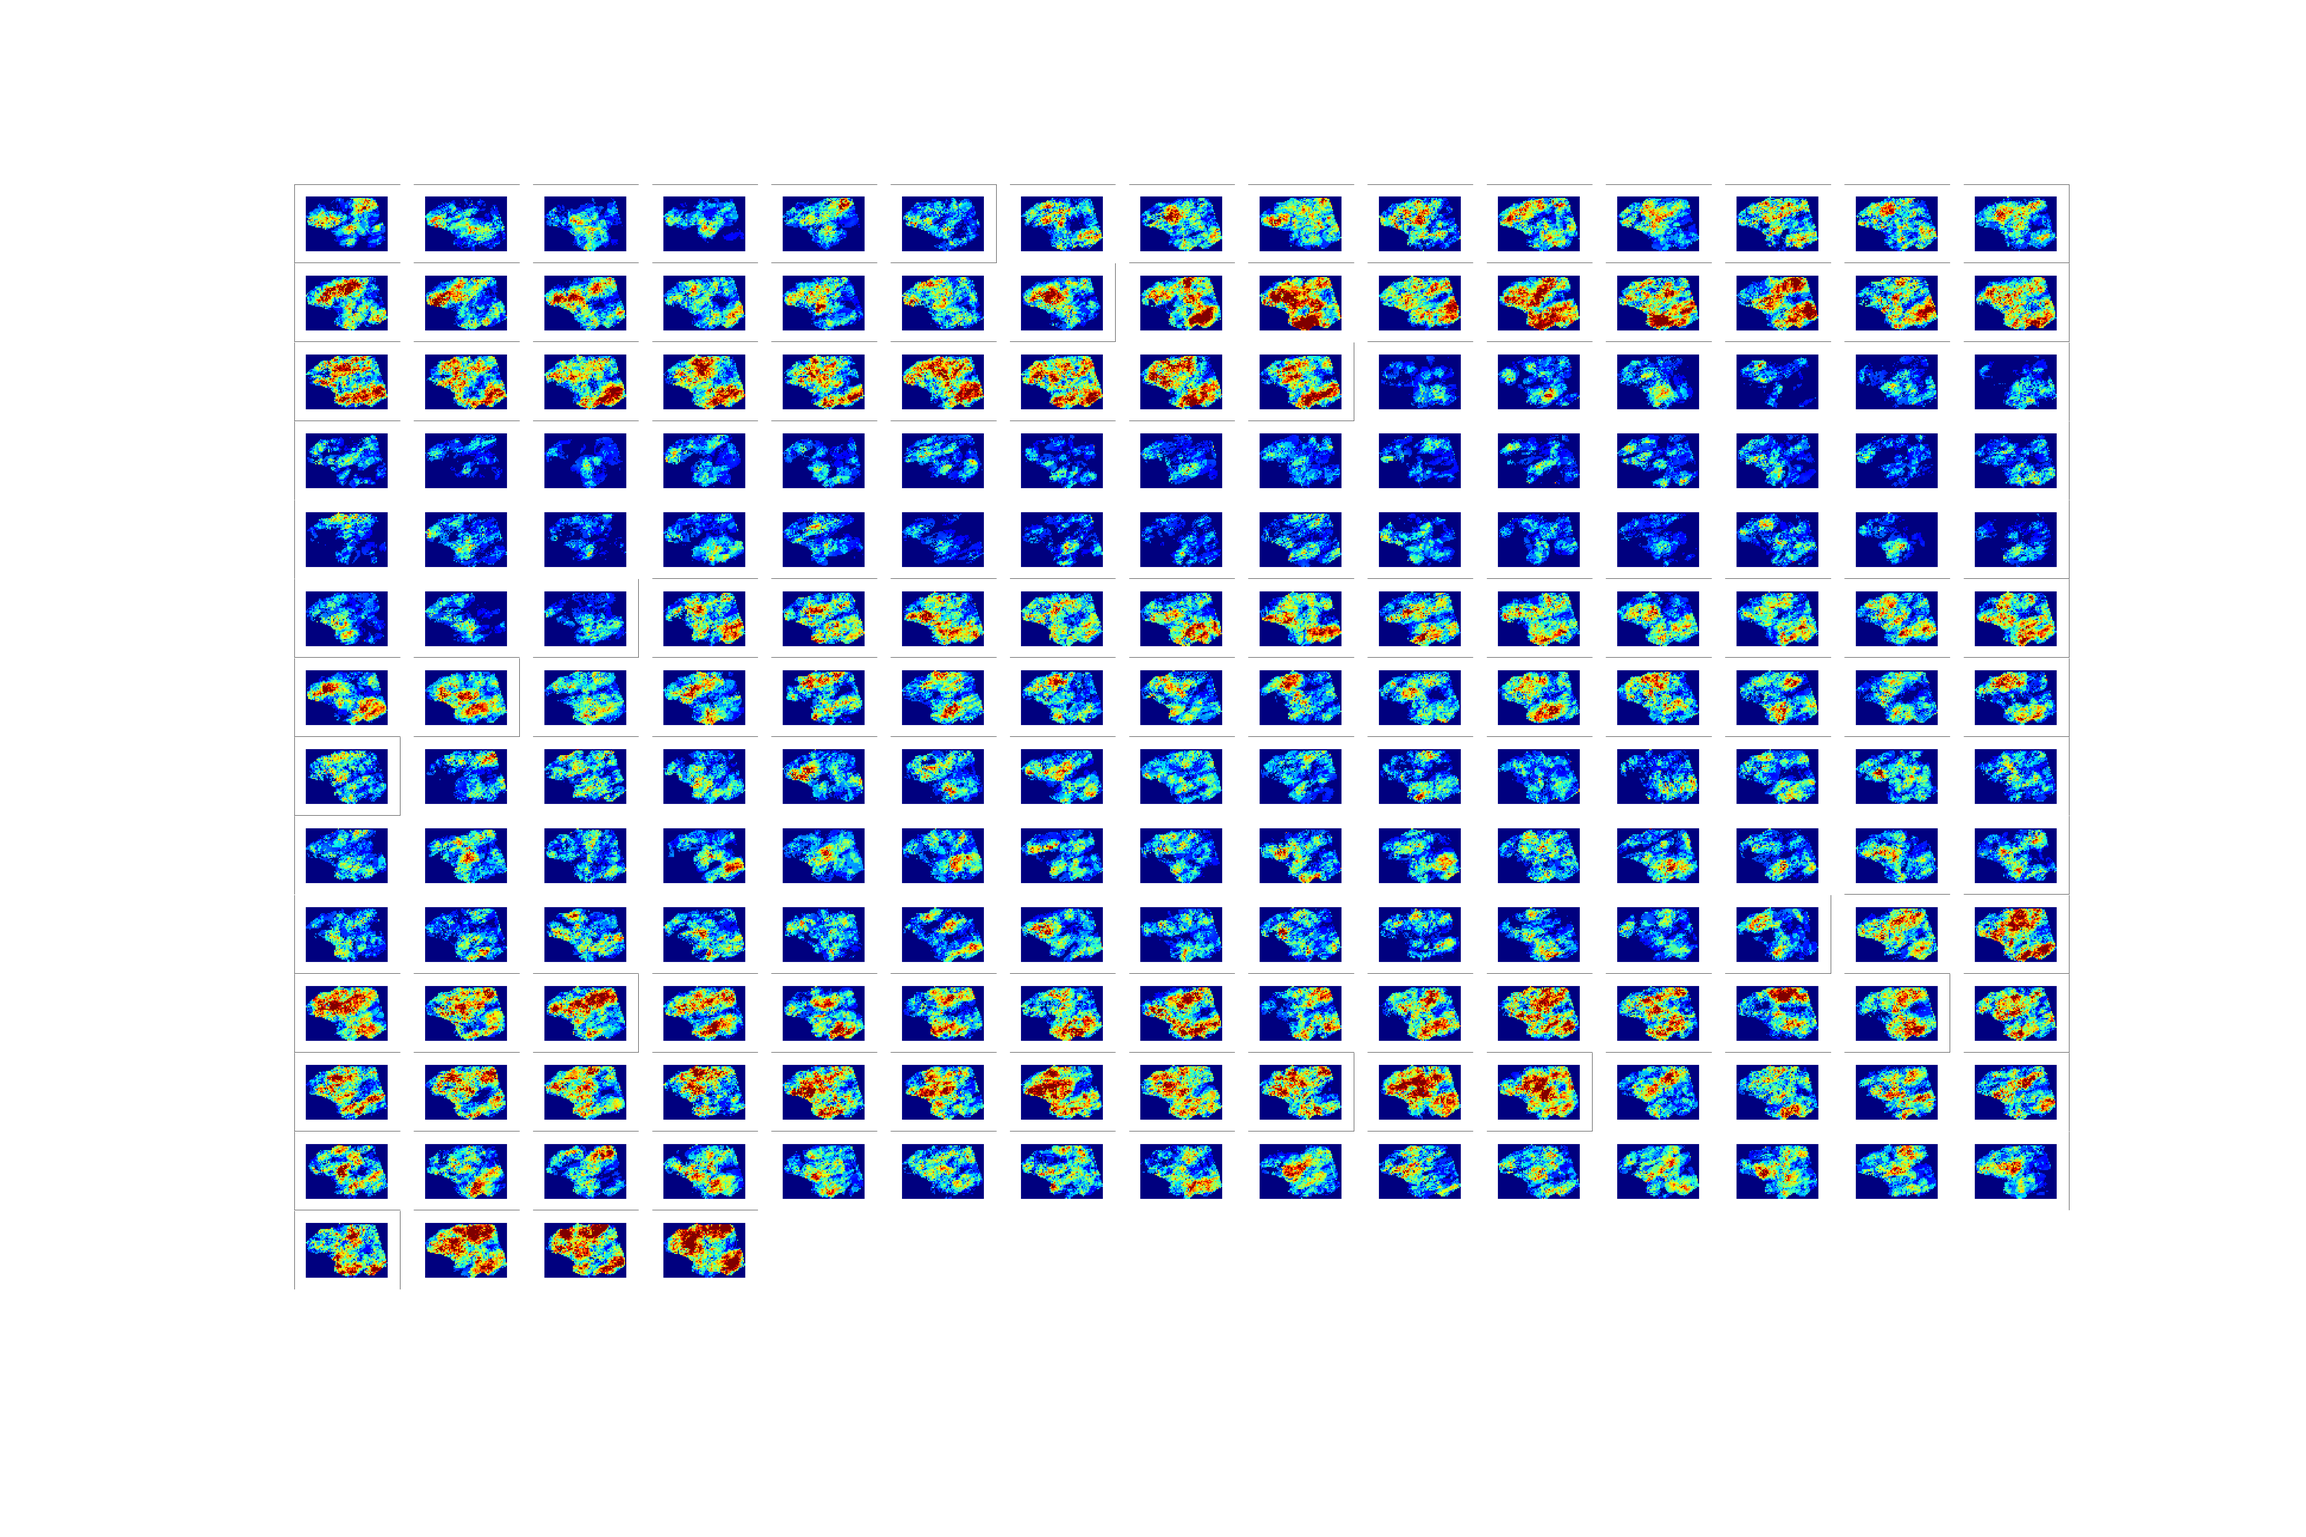
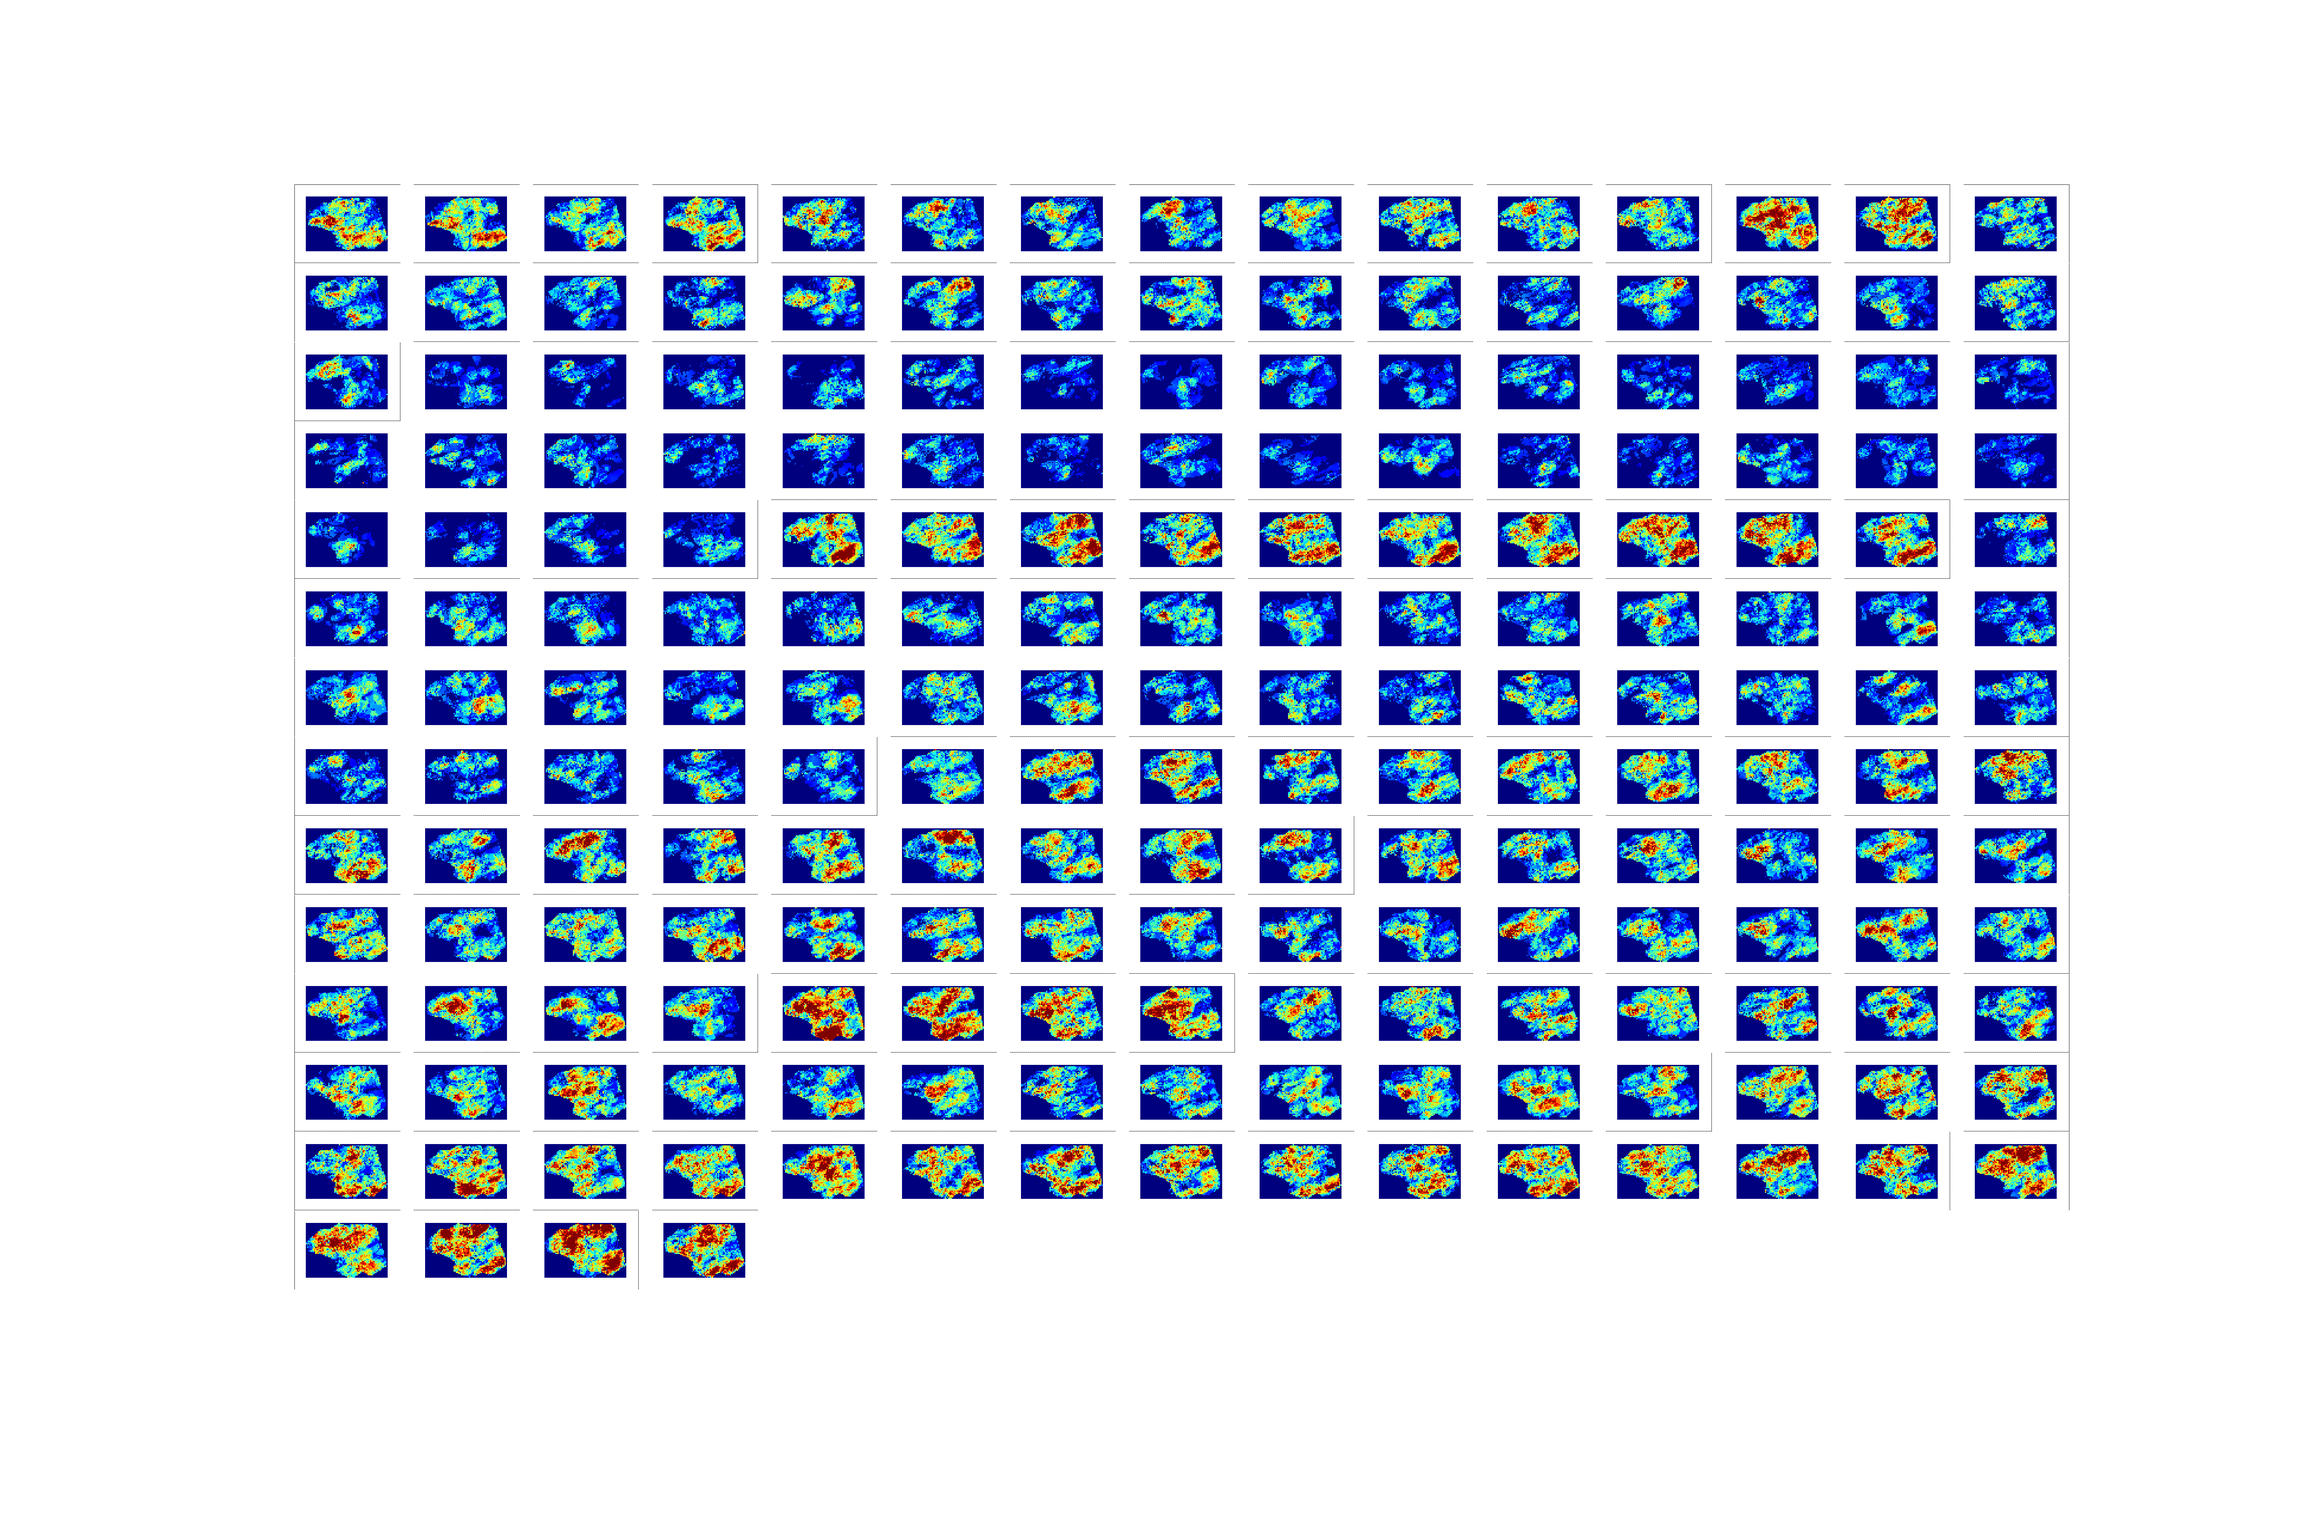
RV funcional com interface

Changed region(s): [[0.1246, 0.1243, 0.9036, 0.8393]]

diff --git a/webviz_plugin_boilerplate/plugins/ReservoirViewer.py b/webviz_plugin_boilerplate/plugins/ReservoirViewer.py
@@ -27,7 +27,7 @@ class ReservoirViewer(WebvizPluginABC):
         self.input_max_clusters = "input-max_clusters"
         self.input_iterations = "input-iterations"
         self.input_property_name = "input-property-name"
-        self.input_property_file = "input-property-file"
+        self.input_property_function = "input-property-file"
         self.input_property_file_2d = "input-property-file-2d"
         self.input_property_dist_matrix = "input-property-dist-matrix"
         self.input_property_sorting_alg = "input-property-sorting-alg"
@@ -42,25 +42,25 @@ class ReservoirViewer(WebvizPluginABC):
         self.input_list = {
                         self.input_root: "root path",
                         self.input_benchmark: "benchmark",
-                        self.input_folder2d: "export 2d folder name",
+                        self.input_folder2d: "name of 2d file folder",
                         self.input_folder_Dist_Matr: "distance matrix folder name",
-                        self.input_chart_type: "chart type",
-                        self.input_layout_curve: "layout curve",
-                        self.input_clustering_method: "clustering method",
-                        self.input_distance_matrix: "distance matrix path",
+                        self.input_chart_type: "chart type (pixelization/smallmultiples)",
+                        self.input_layout_curve: "layout curve (none)",
+                        self.input_clustering_method: "clustering method (only xmeans)",
+                        self.input_distance_matrix: "distance matrix (MODELS3D_ALL_PROP/MODELS3D_ PROP/FEATVECTORS_PROP)",
                         self.input_min_clusters: "minimum number of clusters",
                         self.input_max_clusters: "maximum number of clusters",
                         self.input_iterations: "number of iterations",
-                        self.input_property_name: "property name",
-                        self.input_property_file: "property file",
-                        self.input_property_file_2d: "property file-2d",
-                        self.input_property_dist_matrix: "property distance matrix file",
-                        self.input_property_sorting_alg: "property sorting algorithm" ,
-                        self.input_property_file_feat_vect: "property feature vectors file",
-                        self.input_strategy_name: "strategy name",
-                        self.input_strategy_folder: "strategy folder",
-                        self.input_all_models: "all models txt file",
-                        self.input_highlighted_models: "highlighted models file"}
+                        self.input_property_name: "property: name",
+                        self.input_property_function: "property: coordinate suppression function (ex: MIN, MAX, SUM)",
+                        self.input_property_file_2d: "property: name of file-2d (ex: intermediary_file.csv)",
+                        self.input_property_dist_matrix: "property: name of distance matrix file",
+                        self.input_property_sorting_alg: "property: name of sorting algorithm" ,
+                        self.input_property_file_feat_vect: "property: name of feature vectors file",
+                        self.input_strategy_name: "strategy: name",
+                        self.input_strategy_folder: "strategy: path to folder",
+                        self.input_all_models: "name of txt file with all models",
+                        self.input_highlighted_models: "name of highlighted models file"}
 
         self.set_callbacks()
 
@@ -69,7 +69,7 @@ class ReservoirViewer(WebvizPluginABC):
         style = {
             "height": f"2.5em",
             "align-items": "center",
-            "margin": "1em"
+            "margin": "0.8em"
         }
         
         div_style = {
@@ -88,7 +88,7 @@ class ReservoirViewer(WebvizPluginABC):
                              self.input_list[i]),
                          debounce=False,
                          autoComplete="on",
-                         required=True,
+                         required=False,
                          size="60",
                          style=style,
                          ),
@@ -96,7 +96,9 @@ class ReservoirViewer(WebvizPluginABC):
             ]),
 
             html.Br(),
+            html.Div([
             html.Button(id=self.button_id, n_clicks=0, children="Submit"),
+            html.Div(id=self.div_id, children="Image will appear below"),]),
             html.Div(id=self.div_id),
 
         ])
@@ -111,21 +113,21 @@ class ReservoirViewer(WebvizPluginABC):
                 Input(self.input_clustering_method, "value"), Input(self.input_distance_matrix, "value"), 
                 Input(self.input_min_clusters, "value"), Input(self.input_max_clusters, "value"),
                 Input(self.input_iterations, "value"), Input(self.input_property_name, "value"),
-                Input(self.input_property_dist_matrix, "value"), Input(self.input_property_file, "value"),
-                Input(self.input_property_file_2d, "value"), Input(self.input_property_sorting_alg, "value"),
-                 Input(self.input_property_file_feat_vect, "value"), Input(self.input_strategy_name, "value"), 
+                Input(self.input_property_function, "value"),Input(self.input_property_file_2d, "value"), 
+                Input(self.input_property_dist_matrix, "value"), Input(self.input_property_sorting_alg, "value"),
+                Input(self.input_property_file_feat_vect, "value"), Input(self.input_strategy_name, "value"), 
                 Input(self.input_strategy_folder, "value"), Input(self.input_all_models, "value"),
                 Input( self.input_highlighted_models, "value"), Input((self.button_id), "n_clicks")
              ]
         )
         def update_text(root: Path,
                         benchmark: str,
-                        folder2d: Path,
-                        folder_Dist_Matr: Path,
+                        folder2d: str,
+                        folder_Dist_Matr: str,
                         chart_type: str,
                         layout_curve: str,
                         clustering_method: str,
-                        distance_matrix: Path,
+                        distance_matrix: str,
                         min_clusters: int,
                         max_clusters: int,
                         iterations: int,
@@ -137,7 +139,7 @@ class ReservoirViewer(WebvizPluginABC):
                         property_file_feat_vect: str,
                         strategy_name: str,
                         strategy_folder: str,
-                        all_models: Path,
+                        all_models: str,
                         highlighted_models: str,
                         button: int):
             if (self.button_id == ctx.triggered_id): # if the submit button is clicked
@@ -190,8 +192,11 @@ class ReservoirViewer(WebvizPluginABC):
 
                 rvConfig = Configuration(args)
                 
+                full_path = os.path.realpath(__file__)
+                        
                 if(self.chart_type == "smallmultiples"):
-                    image = Path("C:/Users/k/Documents/Unicamp/IC/rv_webviz_celmar/reservoirviewer_webviz/webviz_plugin_boilerplate/plugins/RV/generated/sm0.png")
+                    path = os.path.dirname(full_path) + "//generated//sm"+str(0)+".png"
+                    image = Path(path)
                     self.image_url = WEBVIZ_ASSETS.add(image)
                            
                 div_style = {

diff --git a/webviz_plugin_boilerplate/plugins/RV/SmallMultiples.py b/webviz_plugin_boilerplate/plugins/RV/SmallMultiples.py
@@ -4,6 +4,7 @@ import matplotlib
 import csv
 import numpy as np
 import math
+import os
 from webviz_config.webviz_assets import WEBVIZ_ASSETS
 from pathlib import Path
 from matplotlib import gridspec
@@ -12,7 +13,7 @@ from matplotlib import gridspec
 class SmallMultiples:
     def __init__(self, path, curve):
         self.path = path
-        with open("C://Users//k//Documents//Unicamp//IC//rv_webviz_celmar//reservoirviewer_webviz//webviz_plugin_boilerplate//plugins//RV//generated//intermediary_file.csv") as csv_file:
+        with open(path) as csv_file:
             csv_reader = csv.reader(csv_file, delimiter=',')
             lineCount = 0
             for row in csv_reader:
@@ -24,8 +25,7 @@ class SmallMultiples:
         # self.curve: Curve = curve
         self.colorMap = 'jet'
         print("i, j, k: ", self.max_i, self.max_j, self.num_of_models)
-        self.final_grid = self.read_file(
-            "C://Users//k//Documents//Unicamp//IC//rv_webviz_celmar//reservoirviewer_webviz//webviz_plugin_boilerplate//plugins//RV//intermediary_file.csv")
+        self.final_grid = self.read_file(path)
         self.final_dict = {}
         self.new_grid_order = []
 
@@ -43,7 +43,6 @@ class SmallMultiples:
     #     return self.curve
 
     def read_file(self, path):
-        path = "C://Users//k//Documents//Unicamp//IC//rv_webviz_celmar//reservoirviewer_webviz//webviz_plugin_boilerplate//plugins//RV//generated//intermediary_file.csv"
         file_content = []
         count_line = 0
 
@@ -134,17 +133,20 @@ class SmallMultiples:
 
         all_axes = fig.get_axes()
 
-        # show only the outside spines
+        # Delimit the clusters
         for index, ax in enumerate(all_axes):
             for sp in ax.spines.values():
                 sp.set_visible(False)
                 if (index < self.num_of_models-1):
                     if self.final_dict[self.new_grid_order[index]] != self.final_dict[self.new_grid_order[index+1]]:
                         ax.spines['right'].set_visible(True)
+                        ax.spines['right'].set_linestyle('dashed')
                 if (index < self.num_of_models-dimension):
                     if self.final_dict[self.new_grid_order[index]] != self.final_dict[self.new_grid_order[index+dimension]]:
                         ax.spines['bottom'].set_visible(True)
+                        ax.spines['bottom'].set_linestyle('dashed')
 
+                # Border of the image
                 if ax.get_subplotspec().is_first_row():
                     ax.spines['top'].set_visible(True)
                 if ax.get_subplotspec().is_last_row():
@@ -154,4 +156,9 @@ class SmallMultiples:
                 if ax.get_subplotspec().is_last_col():
                     ax.spines['right'].set_visible(True)
 
-        plt.savefig("C://Users//k//Documents//Unicamp//IC//rv_webviz_celmar//reservoirviewer_webviz//webviz_plugin_boilerplate//plugins//RV//generated//sm"+str(prop_index)+".png")
+
+        full_path = os.path.realpath(__file__)
+        path = os.path.dirname(full_path) + "//generated//sm"+str(prop_index)+".png"
+        print("Path of the generated file: ",path)
+        
+        plt.savefig(path)

diff --git a/webviz_plugin_boilerplate/plugins/RV/RVConfig.py b/webviz_plugin_boilerplate/plugins/RV/RVConfig.py
@@ -75,12 +75,12 @@ def settingDrawConfigs(self, estrategias):
             # TODO featureVecFile = self.clusteringConfig.createReservoirFeatureVecMatrix()
             # TODO Clustering clusteringData = self.clusterConfig.clusterReservoirsFeatMatrix(featureVecFile)
             # TODO self.clusterConfig.reorderReservoirByClusters(clusteringData)
-
+        file_2d_path = self.root + "//" + self.folder2d + "//" + p.getFile2d()
         if (self.chart_type == "pixelization"):
             print('Executing Pixelization')
         elif (self.chart_type == "smallmultiples"):
             print('Executing Small Multiples')
-            smallMultiples = SmallMultiples(self.folder2d, self.layout_curve)
+            smallMultiples = SmallMultiples(file_2d_path, self.layout_curve)
             smallMultiples.reorder_with_clusters(clustering)
             smallMultiples.draw_small_multiples(propIndex)
         else:

diff --git a/webviz_plugin_boilerplate/plugins/RV/Property.py b/webviz_plugin_boilerplate/plugins/RV/Property.py
@@ -1,14 +1,17 @@
 class Property:
-	def __init__(self, root, function, folder2d, folder_Dist_Matr, sortingAlgor, fileFeatVect):
-		self.root = root
+	def __init__(self, name, function, file2d, folder_Dist_Matr, sortingAlgor, fileFeatVect):
+		self.name = name
 		self.function = function
-		self.folder2d = folder2d
+		self.file2d = file2d
 		self.fileDistMatr = folder_Dist_Matr
 		self.sortingAlgor = sortingAlgor
 		self.fileFeatVect = fileFeatVect
+  
+	def getFile2d(self):
+		return (self.file2d)
 
 	def getProperty(self):
-		return (self.root+" "+self.function+" "+self.folder2d)
+		return (self.name+" "+self.function+" "+self.file2d)
 
 	def convertMeanType(self):
 		if self.function[0] == 'M':

diff --git a/webviz_plugin_boilerplate/plugins/RV/Clustering.py b/webviz_plugin_boilerplate/plugins/RV/Clustering.py
@@ -12,9 +12,6 @@ class Clustering:
         self.max_clusters = max_clusters
         self.num_iterations = numIter
         self.cluster_dict = {}
-        
-        
-        print()
 
     def getMethod(self): return self.method 
     def getdist_matrix(self): return self.dist_matrix 
